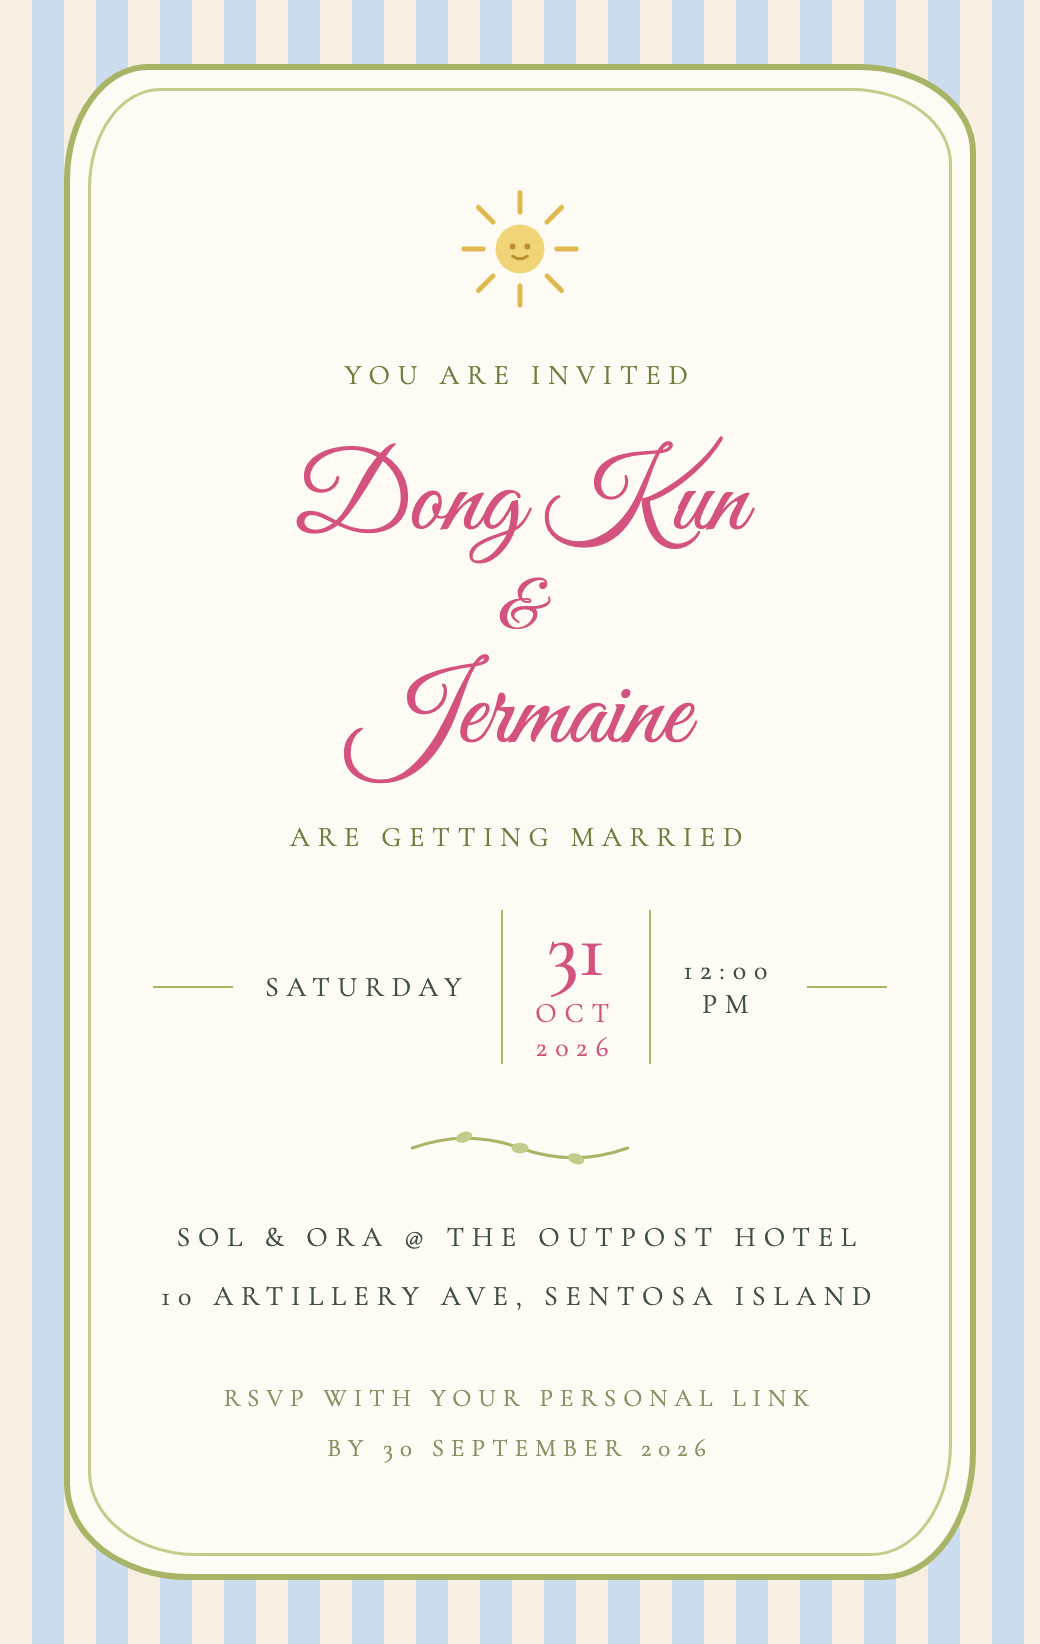
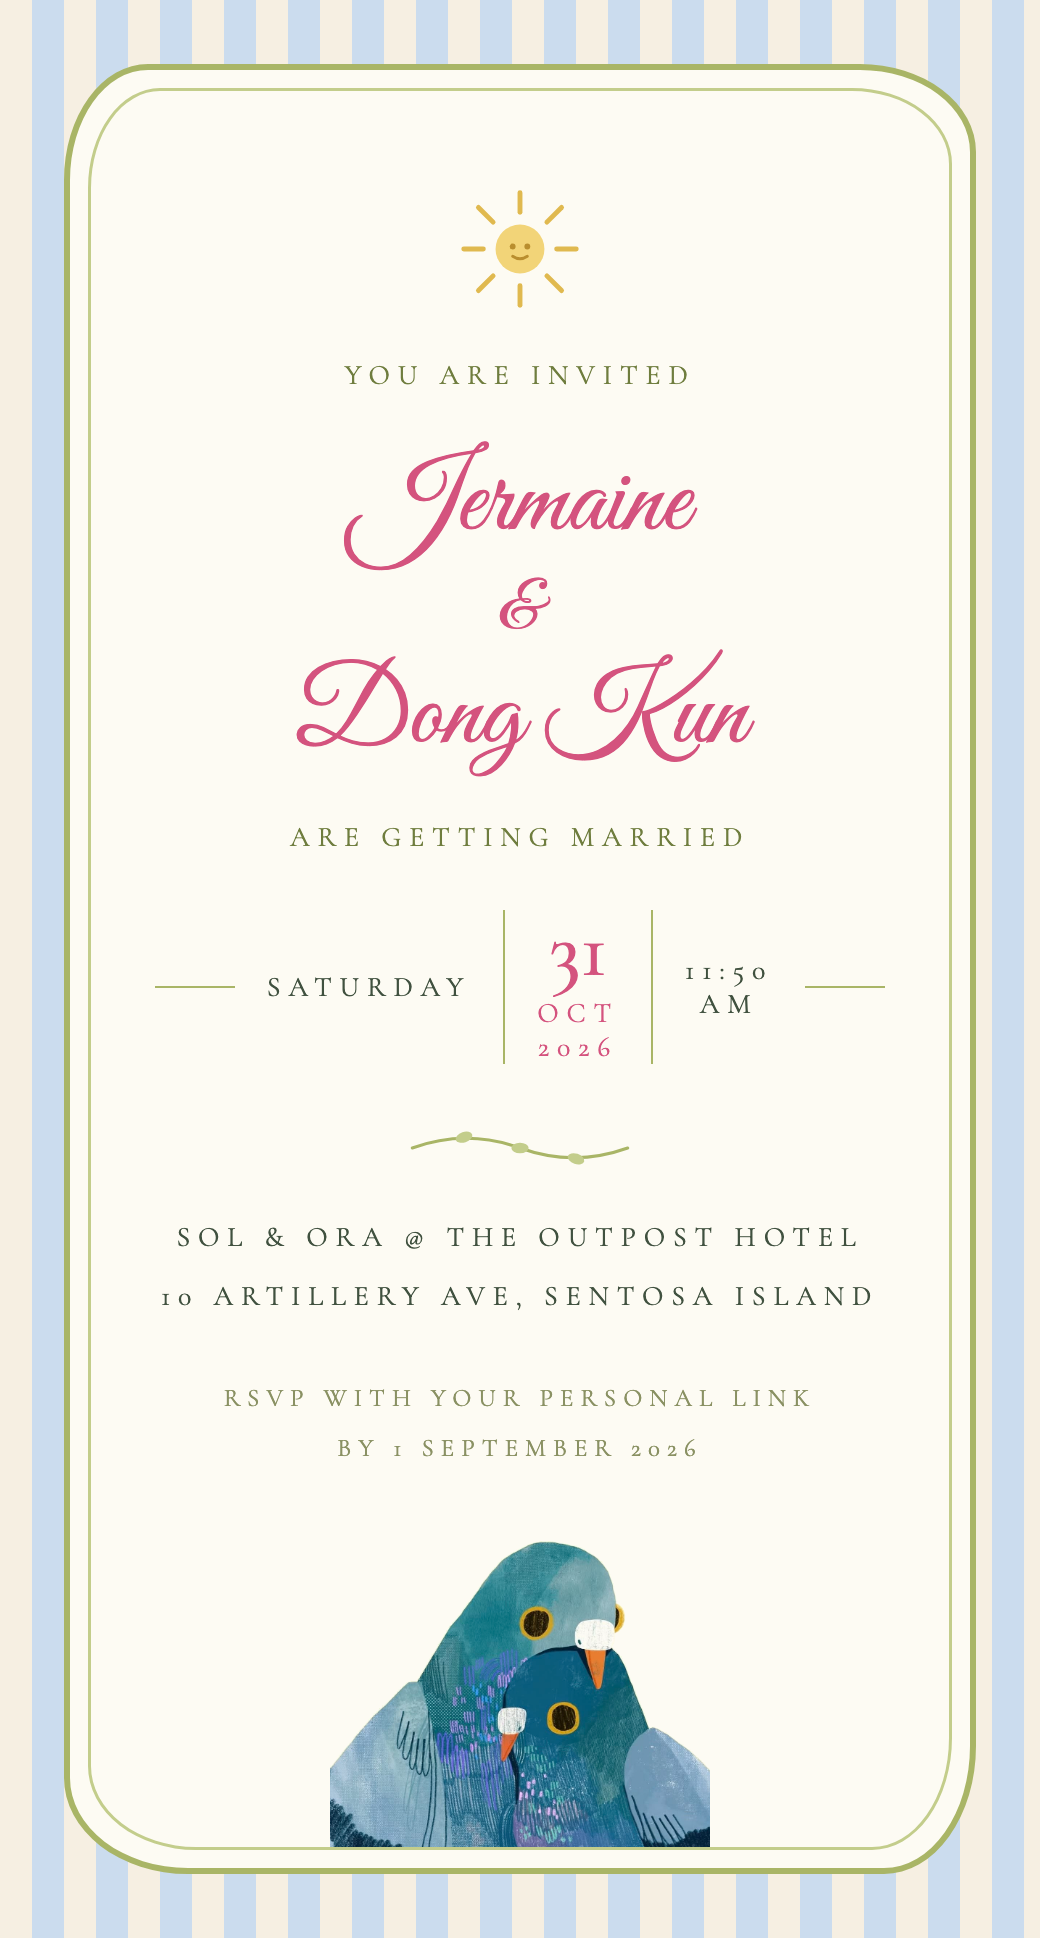
feat: refresh the e-invite poster (Jermaine first, 11:50, 1 Sep, pigeon sign-off) and shorten the WhatsApp template

diff --git a/public/e-invite.html b/public/e-invite.html
@@ -2,7 +2,18 @@
 <html>
 <head>
 <meta charset="utf-8" />
-<title>Dong Kun &amp; Jermaine — E-Invite</title>
+<title>Jermaine &amp; Dong Kun — E-Invite</title>
+<!--
+  The sendable poster (WhatsApp / print). Rendered to public/e-invite.png:
+
+    "/Applications/Google Chrome.app/Contents/MacOS/Google Chrome" \
+      --headless --disable-gpu --force-device-scale-factor=2 \
+      --window-size=520,830 --screenshot=public/e-invite.png \
+      file://$PWD/public/e-invite.html
+
+  Keep the copy here in step with lib/content.ts — names, date, arrival
+  time and the RSVP deadline all appear in both places.
+-->
 <style>
   @import url('https://fonts.googleapis.com/css2?family=Cormorant+Garamond:ital,wght@0,400;0,500;1,400&family=Great+Vibes&display=swap');
   * { margin: 0; padding: 0; box-sizing: border-box; }
@@ -14,7 +25,11 @@
 <body>
   <div style="width: 520px; background: repeating-linear-gradient(90deg, #f6efe2 0px, #f6efe2 16px, #cbdcee 16px, #cbdcee 32px); padding: 32px;">
     <div style="background: #FDFBF3; border: 3px solid #a9b566; border-radius: 42px 58px 46px 62px / 58px 44px 64px 48px; padding: 9px;">
-      <div style="border: 1.5px solid #c3cd8b; border-radius: 36px 50px 40px 54px / 50px 38px 56px 42px; padding: 46px 34px 40px; text-align: center;">
+      <!-- overflow:hidden + no bottom padding lets the pigeons sit flush on
+           the inner frame's bottom edge, which hides the straight cut in
+           the artwork (the cutout is opaque along its lower edge, so any
+           gap below it reads as a pasted rectangle). -->
+      <div style="border: 1.5px solid #c3cd8b; border-radius: 36px 50px 40px 54px / 50px 38px 56px 42px; padding: 46px 34px 0; text-align: center; overflow: hidden;">
         <svg width="66" height="66" viewBox="0 0 54 54" aria-hidden="true" style="display:block;margin:0 auto 16px;">
           <circle cx="27" cy="27" r="10" fill="#f2d478"/>
           <g stroke="#e0b94f" stroke-width="2" stroke-linecap="round">
@@ -27,9 +42,9 @@
           <path d="M24 30 Q27 32 30 30" stroke="#b98e2f" stroke-width="1.2" fill="none" stroke-linecap="round"/>
         </svg>
         <p class="caps" style="font-size: 14px; color: #6f7d3e; line-height: 2; margin-bottom: 20px;">You are invited</p>
-        <p class="script" style="font-size: 54px; line-height: 1.15;">Dong Kun</p>
-        <p class="script" style="font-size: 34px; line-height: 1.3;">&amp;</p>
         <p class="script" style="font-size: 54px; line-height: 1.15;">Jermaine</p>
+        <p class="script" style="font-size: 34px; line-height: 1.3;">&amp;</p>
+        <p class="script" style="font-size: 54px; line-height: 1.15;">Dong Kun</p>
         <p class="caps" style="font-size: 14px; color: #6f7d3e; margin: 20px 0 28px;">are getting married</p>
         <div style="display: flex; align-items: center; justify-content: center; gap: 16px; margin-bottom: 28px;">
           <span style="flex:0 0 40px; border-top: 1px solid #a9b566;"></span>
@@ -41,7 +56,7 @@
             <span class="caps" style="font-size: 14px; display:block;">2026</span>
           </span>
           <span style="border-left: 1px solid #a9b566; align-self: stretch;"></span>
-          <span class="caps" style="font-size: 14px; color: #40513f;">12:00 pm</span>
+          <span class="caps" style="font-size: 14px; color: #40513f;">11:50 am</span>
           <span style="flex:0 0 40px; border-top: 1px solid #a9b566;"></span>
         </div>
         <svg width="132" height="28" viewBox="0 0 120 26" aria-hidden="true" style="display:block;margin:0 auto 16px;">
@@ -51,7 +66,11 @@
           <ellipse cx="86" cy="18" rx="4" ry="2.4" fill="#c3cd8b" transform="rotate(18 86 18)"/>
         </svg>
         <p class="caps" style="font-size: 14px; color: #40513f; line-height: 2.1; margin-bottom: 24px;">Sol &amp; Ora @ The Outpost Hotel<br/>10 Artillery Ave, Sentosa Island</p>
-        <p class="caps" style="font-size: 12.5px; color: #8a9163; line-height: 2;">RSVP with your personal link<br/>by 30 September 2026</p>
+        <p class="caps" style="font-size: 12.5px; color: #8a9163; line-height: 2;">RSVP with your personal link<br/>by 1 September 2026</p>
+        <!-- The same pigeon pair that closes every page on the site, so the
+             poster and the web invitation sign off identically. Relative
+             src works both from file:// (rendering) and /e-invite.html. -->
+        <img src="pigeons.png" alt="" width="190" style="display:block;margin:34px auto -2px;"/>
       </div>
     </div>
   </div>

diff --git a/lib/content.ts b/lib/content.ts
@@ -586,6 +586,10 @@ export const ADMIN_COPY = {
 
   // [input] The WhatsApp message copied by the Message button.
   //         Placeholders: {name} {link} {date} {deadline}.
+  //         Kept short: WhatsApp collapses long messages behind "Read more",
+  //         and the link must stay visible so the preview card renders.
+  //         {date} sits on its own line — EVENT_DETAILS.date is written
+  //         "31 October 2026, Saturday", which reads badly mid-sentence.
   linkMessageTemplate:
-    "Hi {name}! We're getting married on {date} 🎉 Here's your personal invitation — it has all the details and your RSVP: {link}\n\nDo let us know by {deadline}. Can't wait to celebrate with you!",
+    "Hi {name}! We're getting married, and we'd love you there 🎉\n{date}\n\nHere's your personal invitation — do RSVP with your meal choices by {deadline}:\n{link}",
 };
